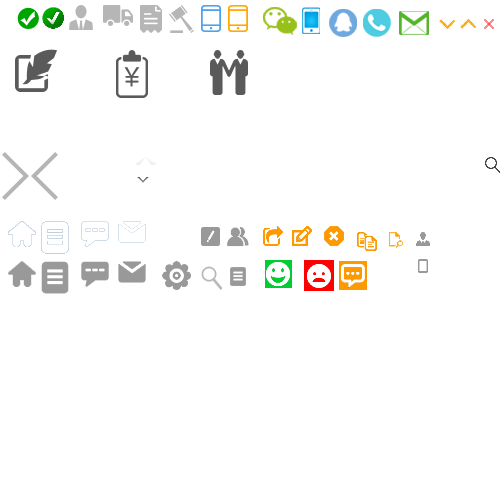
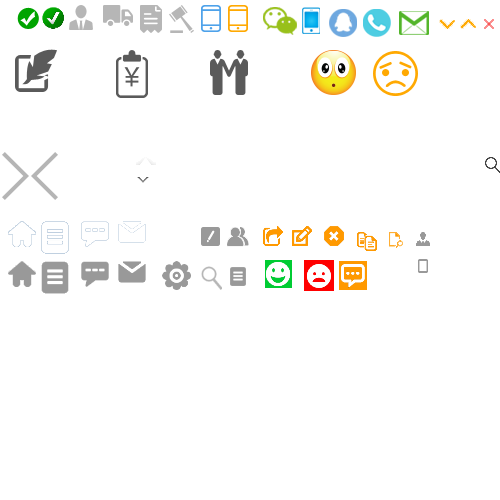
add new page by xiongjun

Changed region(s): [[0.6, 0.09, 0.72, 0.21], [0.75, 0.09, 0.84, 0.21]]

diff --git a/res/Btrade-pc/templates/500.html b/res/Btrade-pc/templates/500.html
@@ -1,0 +1,55 @@
+<!DOCTYPE html>
+<html lang="en">
+
+<head>
+    <meta charset="utf-8">
+    <meta http-equiv="X-UA-Compatible" content="IE=edge">
+    <meta name="viewport" content="width=device-width,initial-scale=1.0,maximum-scale=1.0,minimum-scale=1.0,user-scalable=no" />
+    <title>500-药材购</title>
+    <!-- 浏览器高速模式 -->
+    <meta name="renderer" content="webkit" />
+    <!-- Bootstrap -->
+    <link rel="stylesheet" href="css/bootstrap.min.css" />
+    <link rel="stylesheet" href="css/style.css" />
+    <!--[if lt IE 9]>
+      <script src="js/html5shiv.min.js"></script>
+      <script src="js/respond.min.js"></script>
+    <![endif]-->
+</head>
+
+<body>
+
+
+<section class="sec">
+    <div class="yc-page-error">
+        <div class="pic">
+            <img width="361" height="156" src="images/banner-500.png" alt="页面无法访问">
+            <span>（错误类型：500）</span>
+        </div>
+        <div class="tips">
+            <i class="icons sad"></i>
+            <strong>抱歉，出错了！但是我们已经派人在抢修了......</strong>
+        </div>
+        <div class="links">
+            <a class="btn btn-orange" href="#"><i class="icons back"></i>返回上一页</a>
+        </div>
+    </div>
+</section>
+
+
+<script src="js/jquery.min.js"></script>
+<script src="js/bootstrap.min.js"></script>
+
+
+<script>
+    var ran = (new Date).getTime();
+    $.get('header.html?ran=' + ran, function(data) {
+        $('body').prepend(data);
+    })
+    $.get('footer.html?ran=' + ran, function(data) {
+        $('body').append(data);
+    })
+</script>
+</body>
+
+</html>

diff --git a/res/Btrade-pc/templates/404.html b/res/Btrade-pc/templates/404.html
@@ -1,0 +1,52 @@
+<!DOCTYPE html>
+<html lang="en">
+
+<head>
+    <meta charset="utf-8">
+    <meta http-equiv="X-UA-Compatible" content="IE=edge">
+    <meta name="viewport" content="width=device-width,initial-scale=1.0,maximum-scale=1.0,minimum-scale=1.0,user-scalable=no" />
+    <title>404-药材购</title>
+    <!-- 浏览器高速模式 -->
+    <meta name="renderer" content="webkit" />
+    <!-- Bootstrap -->
+    <link rel="stylesheet" href="css/bootstrap.min.css" />
+    <link rel="stylesheet" href="css/style.css" />
+    <!--[if lt IE 9]>
+      <script src="js/html5shiv.min.js"></script>
+      <script src="js/respond.min.js"></script>
+    <![endif]-->
+</head>
+
+<body>
+
+
+<section class="sec">
+    <div class="yc-page-error">
+        <div class="pic"><img width="361" height="156" src="images/banner-404.png" alt="页面无法访问"></div>
+        <div class="tips">
+            <i class="icons face"></i>
+            <strong>很抱歉，您访问的页面找不到了......</strong>
+        </div>
+        <div class="links">
+            <a class="btn btn-orange" href="#"><i class="icons back"></i>返回上一页</a>
+        </div>
+    </div>
+</section>
+
+
+<script src="js/jquery.min.js"></script>
+<script src="js/bootstrap.min.js"></script>
+
+
+<script>
+    var ran = (new Date).getTime();
+    $.get('header.html?ran=' + ran, function(data) {
+        $('body').prepend(data);
+    })
+    $.get('footer.html?ran=' + ran, function(data) {
+        $('body').append(data);
+    })
+</script>
+</body>
+
+</html>

diff --git a/res/Btrade-pc/static/css/style.css b/res/Btrade-pc/static/css/style.css
@@ -178,4 +178,13 @@ footer .logo-mini{position:absolute;top:-25px;right:15px;}
 .preview .prev{left:-70px;background-position:-31px -152px;}
 .preview .next{right:-70px;background-position:-2px -152px;}
 
-
+/* yc-page-error */
+.yc-page-error{padding:150px 0;text-align:center;}
+.yc-page-error .pic span{display:block;font-size:14px;}
+.yc-page-error .tips{margin-top:50px;}
+.yc-page-error .tips .face{width:45px;height:45px;background-position:-311px -50px;}
+.yc-page-error .tips .sad{width:45px;height:45px;background-position:-373px -51px;}
+.yc-page-error .tips strong{font-size:26px;font-weight:100;color:#ababab;vertical-align:middle;}
+.yc-page-error .links{margin-top:50px;}
+.yc-page-error .links .btn{margin:0 5px;padding:13px 51px;}
+.yc-page-error .links .back{width:20px;height:20px;background-position:-177px -157px;}
